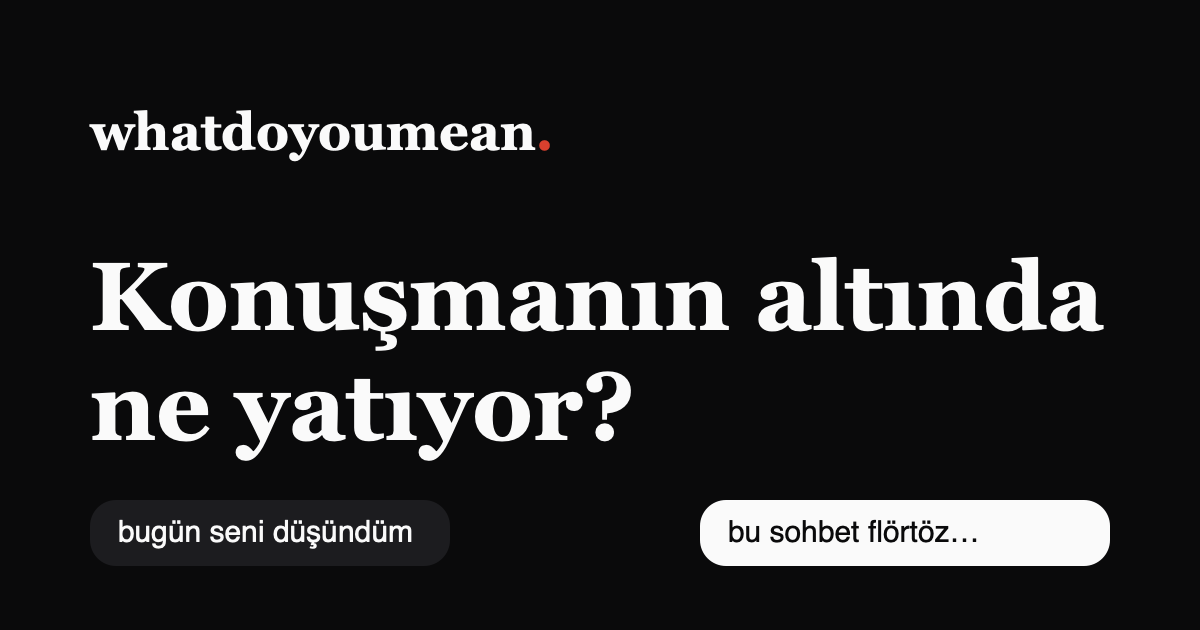
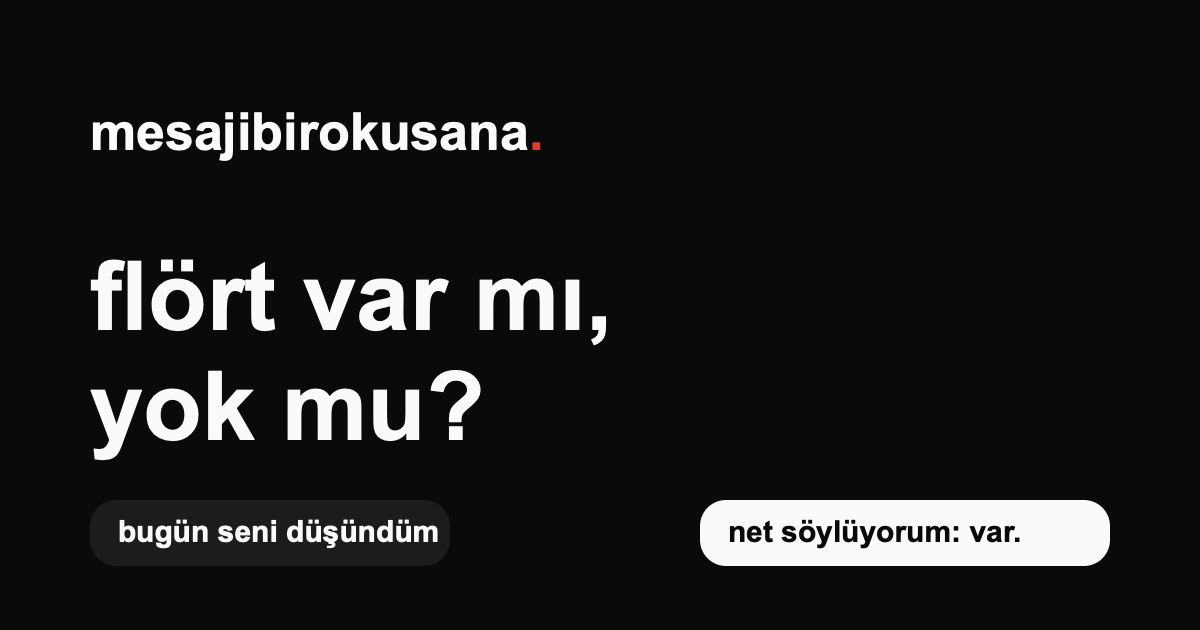
og image renamed and redrawn, devlog m18 m21, linkedin essay 5, claude md v18 status

diff --git a/CLAUDE.md b/CLAUDE.md
@@ -1,27 +1,37 @@
-# whatdoyoumean
+# mesajibirokusana (renamed from whatdoyoumean, 13 Tem night)
 
 A "read the subtext" site for chats. You paste (or screenshot, or drop a WhatsApp export of) a
-conversation and the engine reads what's really going on: flirty or friendly, who wants it more,
-green/red flags, per-message "what did they mean". Theyseeyourphotos energy but for messaging.
-Turkish-first, FREE and unlimited (no quota, no paywall, no accounts — virality tool by design).
+conversation and the engine answers "flört var mı, yok mu?" with a COMMITTED call plus evidence.
+Theyseeyourphotos energy but for messaging. Turkish-first, FREE and unlimited.
 
-STATUS 2026-07-13 night: LIVE at https://damlahelloworld.github.io/whatdoyoumean/ (v17).
-One marathon session shipped v11→v17: rule-guarded verdict (counted signals veto the model:
-red flags kill flirty, one-sided gets "tek taraflı" with per-side flirt), evidence counts +
-"nasıl okudum?" expandable, whole-chat readings, ~3s reveal + tap-to-skip, demo-chat button,
-on-device PNG share card with roast dare line, denser sea (10-15 bubbles, Damla's spec) with
-textured sprites in both themes, hero = "sana kırmızı çok yakışıyor / bu kız bana aşık mı? /
-kesin aşık kanka :D", caps ink privacy badge → gizlilik. VOICE LAW: playful screenshot-bait
-"kanka" register, lowercase, Damla-calibrated; tense + red-flag screens STAY SERIOUS.
-Seed 268 (hard boundary cases), held-out 72.2% on the harder set (old easy-set 83.7% is not
-comparable), parity 1e-16. VC/PM/league report: reports/2026-07-13-whatdoyoumean-vc.md.
+STATUS 2026-07-13 late night: LIVE at https://damlahelloworld.github.io/mesajibirokusana/ (v18,
+old /whatdoyoumean/ URL is dead 404). v18 shipped in one session, all Damla-directed:
+- RENAME everywhere (repo, folder, worker `mesajibirokusana-api`, copy, share card, og). Reason:
+  TR product with an EN name kills word of mouth; new name IS the sentence users say.
+- LLAMA SPIKER LIVE: worker `/api/spiker` (Groq llama-3.3-70b, secrets set, deployed) rewrites the
+  engine's lines fresh per request + returns "gözden kaçanlar" (evidence-quoted observations:
+  self-talk, over-investment, manipulation/gaslight smell, green flags). Engine facts are LAW;
+  facts sent as explicit named numbers (never "5-3" strings — Llama misread those). Consent
+  checkbox gates it (KVKK text shipped same session); no consent / worker down → template floor.
+  Fuses: 6/min + 60/day per IP, 2000/day global, SPIKER_OPEN kill switch, KV = MESAJ_RATE_LIMIT.
+- NET HÜKÜM (Damla: "varsa var yoksa yok deyin, bıktık"): headline commits — flört var. / flört
+  yok. / flört var, ama tek taraflı. (>=50 or flirty verdict = var; onesided = tek). Mumbling
+  middle-band lines deleted; honesty lives in score + counts + "nasıl okudum?".
+- VOICE LAW additions: NO sports metaphors (gol/kale dead), NO gendered registers, NO ai filler,
+  no repeated-word tics; "red flag/green flag" (never "kırmızı bayrak"); Pudding Spotify-roast
+  register = react to data, don't narrate. Questions end with "?" (copy law).
+- DESIGN: dark ONLY (light mode + theme toggle removed), Arial everywhere (Fraunces/Inter gone,
+  no Google Fonts requests), content text bold (web 1.0 chunky), denser sea 16-26 bubbles,
+  sprites re-keyed via tools/clean_bubbles.py (body mask + edge unpremultiply; dirty px 54k→4.5k).
+- Legacy Gemini /api/read path kept but off; old unsure→"buluta sor" UI removed.
+Seed 268, held-out 72.2% (hard set), parity 1e-16. VC report: reports/2026-07-13-whatdoyoumean-vc.md.
 
-NEXT: EN second engine in a fresh session (lexicons + EN seed + model.en.json + routing;
-greenlit "lig arttır"). DAMLA-ONLY: worker deploy (`cd backend && wrangler login` → secrets
-GEMINI_API_KEY + APP_TOKEN → PUBLIC_READ=on → deploy) for the fallback flywheel; 10 real
-screenshots for an OCR quality run; more MJ bubble sprites if she wants.
+NEXT: spiker polish (LLM sometimes slips "sanki" tic + capitalizes lowercase voice — tighten
+prompt or post-process), EN second engine (greenlit "lig arttır"), 10 real screenshots OCR run.
+DAMLA-ONLY: rotate the Groq key (it touched terminal history + chat 13 Tem — make new key at
+console.groq.com, then `npx wrangler secret put GROQ_API_KEY` in HER OWN terminal, blind paste).
 Deploy: `git subtree split --prefix web -b t && git push -f origin t:gh-pages && git branch -D t`; bump ?v=N + footer.
-Retrain: `python3 train/train.py`; verify `python3 train/parity_check.py && node train/parity_check.mjs`; product walk harness lives at /tmp/wdym_walk.mjs (recreate from git history of this note if gone).
+Retrain: `python3 train/train.py`; verify `python3 train/parity_check.py && node train/parity_check.mjs`; walk harness /tmp/mbo_walk/walk.mjs (recreate from git history of this note if gone).
 
 ## The one non-negotiable idea: cascade, not wrapper
 This is NOT a GPT/Gemini wrapper. The engine is a **cascade**:

diff --git a/devlog.md b/devlog.md
@@ -259,3 +259,27 @@ tek taraflı sohbette flört dili gerçekten var, ama tamamı senden. eski ekran
 hook: bugün ürünümün bütün cümlelerini sildim ve yerine arkadaşınızın atacağı mesajları yazdım.
 
 sorun şuydu: analiz doğruydu ama ses kasıntıydı. "ilgi var ama tek yönden akıyor" diyordu; doğru ama kimse bunun ekran görüntüsünü atmaz. yeni hali: "kanka üzülerek söylüyorum, bu maçta tek kale oynanıyor ve kale sensin." aynı veri, aynı hüküm, ama artık paylaşılabilir. soğuk sohbet "klimanın önünde yazışıyor gibisiniz" oldu, "bakarız" cevabı "evrensel dilde hayır ama kibarım demek" oldu. tek istisna bilinçli: kırmızı bayrak basan ekranlar ciddi kaldı, çünkü "kontrol dili" uyarısının altına şaka yazmak ürünü ucuzlatır. mizah her yere değil, güvenli yerlere.
+
+## m18 — "ürünümün adını sildim çünkü kimse ingilizce hecelemek istemez" (reel)
+
+hook: dün ürünümün adı whatdoyoumean'di. bugün mesajibirokusana. sebep pazarlama değil, fizik.
+
+türkçe bir ürünün ingilizce ismi ağızdan ağıza yayılamıyor: arkadaşına önerirken heceleyemiyorsun, yanlış yazıyorsun, aramada bulamıyorsun. yeni isim zaten kullanırken kurduğun cümle: ekran görüntüsünü arkadaşına atıp "mesajı bir okusana" diyorsun. ismin işi bu; ürünün kullanıldığı cümlenin kendisi olmak. bonus ders: whatdoyoumean bir soruydu ama sonunda soru işareti yoktu. soru cümleleri soru işaretiyle biter.
+
+## m19 — "yapay zekaya hüküm verdirmiyorum, sadece konuşturuyorum" (reel)
+
+hook: bugün ürünüme llama bağladım ama kararları hâlâ cihazdaki küçük modelim veriyor.
+
+sorun: elle yazılmış kırk şablon cümle, herkese aynı yazı. "generik, ai gibi" eleştirisi haklıydı. çözüm mimaride: hükmü, yüzdeleri, sayımları cihazdaki motor veriyor; llama o raporu kanka ağzıyla yeniden yazıyor ve gözden kaçanları söylüyor: "hep kendini anlatmış, sana bir kez bile sen nasılsın dememiş" gibi. her gözlem sohbetten alıntıyla kanıtlanmak zorunda, alıntı yoksa gözlem yok. beyin bizim, ağız kiralık. bulut çökerse şablonlar hâlâ orada: ürün internetsiz de cevap veriyor.
+
+## m20 — "flört var mı, yok mu? artık cevap veriyorum" (reel)
+
+hook: kullanıcı dedi ki: varsa var deyin yoksa yok deyin, bıktık.
+
+eskiden orta banda düşen sohbetlere "kıvılcım var ama net değil, dosya henüz kapanmadı" diyordum. edebiyat güzel ama cevap değil; insan bu siteye tek bir soruyla geliyor. artık başlık taraf tutuyor: flört var. flört yok. flört var, ama tek taraflı. dürüstlük kaybolmadı, yer değiştirdi: yüzde ve sayımlar hâlâ kanıt satırında ve "nasıl okudum?" bölümünde. karar vermek riskli; karar vermeyen ürünse zaten cevapsız.
+
+## m21 — "balonlarımın arkası kirliydi, kullanıcı yakaladı" (post)
+
+hook: koyu temada kusursuz görünen şey, beyaz temada rezalet çıktı.
+
+midjourney balonlarını siyah zeminden kaba bir eşikle ayırmıştım. koyu zeminde görünmüyordu; beyaz temada kenarlarda kirli saçaklar belirdi. iki katmanlı ders: önce temizliği doğru yap (gövde maskesi + kenar renginin geri çözülmesi; kirli piksel 54 binden 4 bine düştü), sonra yüzeyi azalt: light mode tamamen kalktı, site artık tek kimlikli. az mod, az yüzey, az utanç.

diff --git a/linkedin.md b/linkedin.md
@@ -73,3 +73,17 @@ Yapay zeka ürünlerinin en tehlikeli anı, emin bir sesle yanlış konuşması.
 5. Dürüst durum tespiti: 211 örnekli bir motor henüz küçük lig. Yol belli: etiketli veriyi bine çıkarmak, bulut destekli öğrenme döngüsünü canlıya almak, veri büyüyünce Türkçe BERT koluna geçmek. Ve en zoru: gerçek kullanıcı.
 
 Bu serinin kendisi de o kararlardan biri: süreci saklamak yerine göstermek. Çünkü bir ürünün slopware olmadığının en iyi kanıtı, altındaki kararların hesabını verebilmesi.
+
+## essay 5 — beyni kiralamadım, ağzı kiraladım
+
+bu hafta mesaj analiz ürünüme büyük dil modeli bağladım. ilginç olan ne bağladığım değil, neyi bağlamadığım.
+
+ürünün işi tek cümle: bir sohbet yapıştırıyorsun, "flört var mı, yok mu?" sorusuna net cevap alıyorsun. bu cevabı baştan beri cihazda çalışan kendi küçük istatistik modelim veriyor: kim daha çok yazmış, kim soru sormuş, hangi red flag kalıpları geçmiş; hepsi sayılıyor, hiçbiri uydurulmuyor. sorun cevapta değil, cümlelerdeydi. kırk tane elle yazılmış şablonum vardı ve herkes aynı yazıyı görüyordu. ilk gerçek kullanıcı yorumu acımasızdı: "generik, ai gibi."
+
+ilk refleks tahmin edilebilir: her şeyi gpt'ye devret. bunu yapmadım, çünkü o zaman ürünüm bir sargı kağıdı olurdu; hüküm de, hata da, kimlik de kiralık olurdu. onun yerine işi ikiye böldüm. hükmü, yüzdeleri ve sayımları cihazdaki motor veriyor; bunlar değişmez, kanun. llama ise o raporu alıp arkadaşının atacağı mesaja çeviriyor ve sohbette gözden kaçanları söylüyor: "hep kendini anlatmış, sana bir kez bile sen nasılsın dememiş." kural şu: her gözlem sohbetten gerçek bir alıntıyla kanıtlanmak zorunda. alıntı bulamıyorsa o gözlemi yazamıyor.
+
+bu mimarinin üç getirisi oldu. bir: tutarlılık. aynı sohbete hep aynı karar çıkıyor çünkü karar deterministik; sadece anlatım tazeleniyor. iki: dayanıklılık. bulut çökerse, kota biterse, kullanıcı onay vermezse şablonlar devrede; ürün internetsiz de cevap veriyor. üç: dürüstlük. yapay zekanın en tehlikeli huyu olan "güzel yazılmış uydurma", sayıları değiştiremediği bir kafese kapatıldı.
+
+isim de bu hafta değişti: whatdoyoumean gitti, mesajibirokusana geldi. türkçe bir ürünün ingilizce ismi ağızdan ağıza yayılamıyor; yeni isim zaten ürünü kullanırken kurduğun cümle. bir de hüküm dili netleşti: "kıvılcım var ama dosya kapanmadı" tarzı orta yol cümlelerini sildim. varsa var, yoksa yok. dürüstlük kanıt satırında yaşamaya devam ediyor, ama başlık artık taraf tutuyor.
+
+ders: yapay zekayı ürünün beyni yapmak kolay ve tembel bir karar. onu spiker yapmak, beyni kendinde tutmak daha çok iş; ama ürünü senin yapan da o iş.
